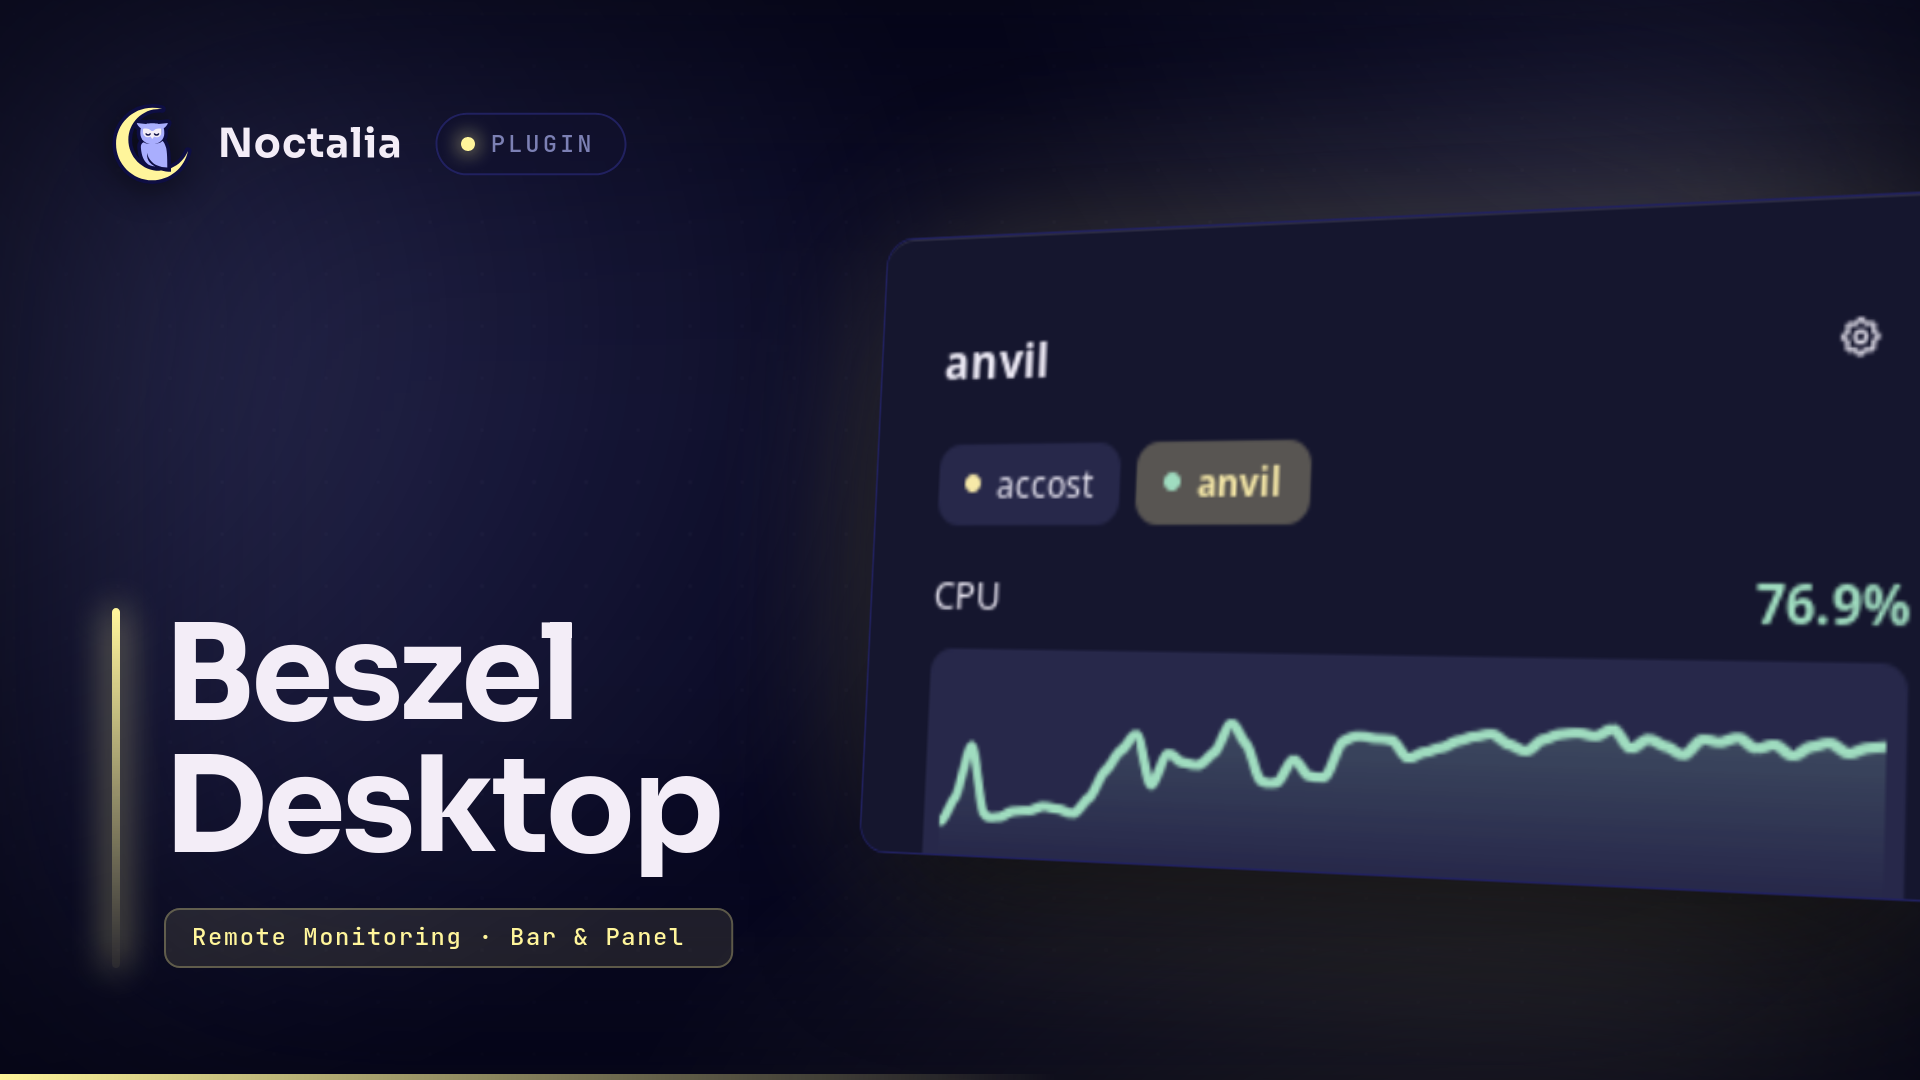
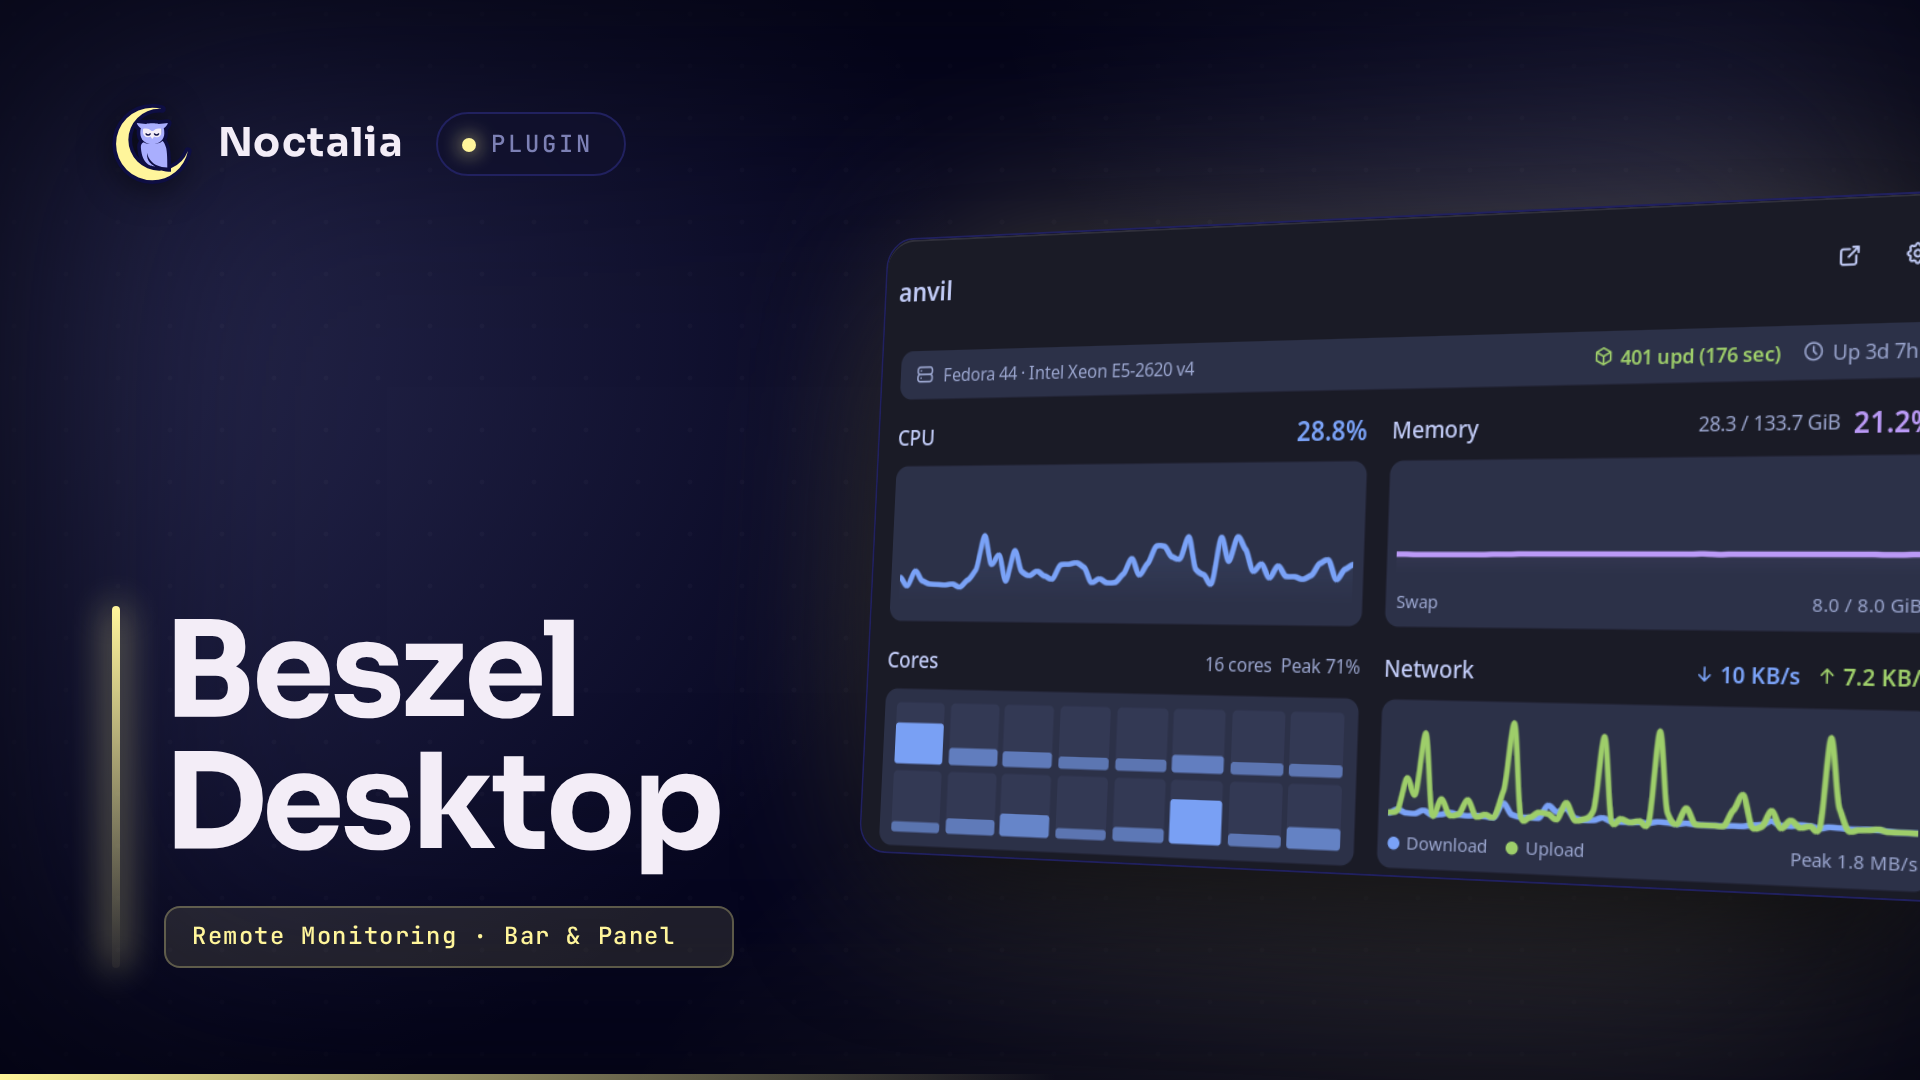
docs(noctalia): refresh panel GIF, screenshot, and 960x540 store thumbnail

diff --git a/README.md b/README.md
@@ -9,15 +9,15 @@ Monitor **remote servers, homelab nodes, and other machines** live (~1 Hz) right
 **Beszel Desktop** connects to your [Beszel](https://beszel.dev) hub and streams real-time CPU, memory, and per-core utilization for any number of remote (or local) hosts into compact desktop widgets. Instead of giving every bar widget your Beszel credentials and opening duplicate connections, one lightweight per-user Rust daemon (`beszel-relay`) authenticates with your hub and fans out live updates over a user-only Unix socket to any widget or CLI tool.
 
 <p align="center">
-  <img src="docs/assets/noctalia-panel.gif" alt="Beszel Desktop live telemetry panel in Noctalia Shell showing CPU sparkline, animated 16-core thermal heatmap, and memory usage" width="330">
-  <img src="docs/assets/dms-popout-dark.png" alt="Beszel Desktop telemetry popout in DankMaterialShell (dark theme)" width="330">
+  <img src="docs/assets/noctalia-panel.gif" alt="Beszel Desktop live 2-column telemetry panel in Noctalia Shell showing OS/CPU vitals, pending updates, CPU and memory sparklines, 16-core heatmap, dual-series network I/O, and disk usage" height="350">
+  <img src="docs/assets/dms-popout-dark.png" alt="Beszel Desktop telemetry popout in DankMaterialShell (dark theme)" height="350">
 </p>
 
 ## Highlights
 
 - **Remote multi-host monitoring in your bar:** Keep an eye on build servers, VPSes, homelab nodes, or workstations side by side at ~1 Hz. Watches Beszel's `systems/*` collection live so hosts coming online or going offline update automatically.
-- **Slim, jitter-free bar pills:** Compact `<host>` + CPU/RAM icons with fixed-width zero-padded percentages (`00%`–`99%`) and smooth severity coloring (amber warning, red danger).
-- **Real-time popout telemetry:** Switch between remote hosts in one click to inspect hover-scrubbable CPU & memory sparklines (with outage gap breaks) and an animated per-core CPU heatmap.
+- **Customizable, jitter-free bar pills:** Independently toggle host name, CPU, memory, GPU, temperature, disk, and split/combined/download/upload network throughput per bar widget — monochrome in normal state, warning/danger colored only at thresholds, with fixed-width slots so live numbers never shift neighboring widgets.
+- **Real-time 2-column telemetry panel:** Inspect OS/CPU vitals, uptime, pending OS/security updates, failed systemd services, battery charge state, hover-scrubbable CPU/memory/GPU/network sparklines, an animated per-core heatmap, root & extra disk usage with storage pool health, top Docker/Podman containers, and a 1-click link straight to the host in Beszel.
 - **Credentials never touch widgets:** Passwords stay inside `beszel-relay`, encrypted at rest via `systemd-creds` (TPM2 + host key when available). Widgets read only from a `0600` Unix socket under `$XDG_RUNTIME_DIR`.
 - **Laptop & server friendly:** Automatically pauses upstream `rt_metrics` polling when no widgets are connected (e.g., locked/closed shell) and detects wake-from-sleep clock jumps for instant reconnects.
 
